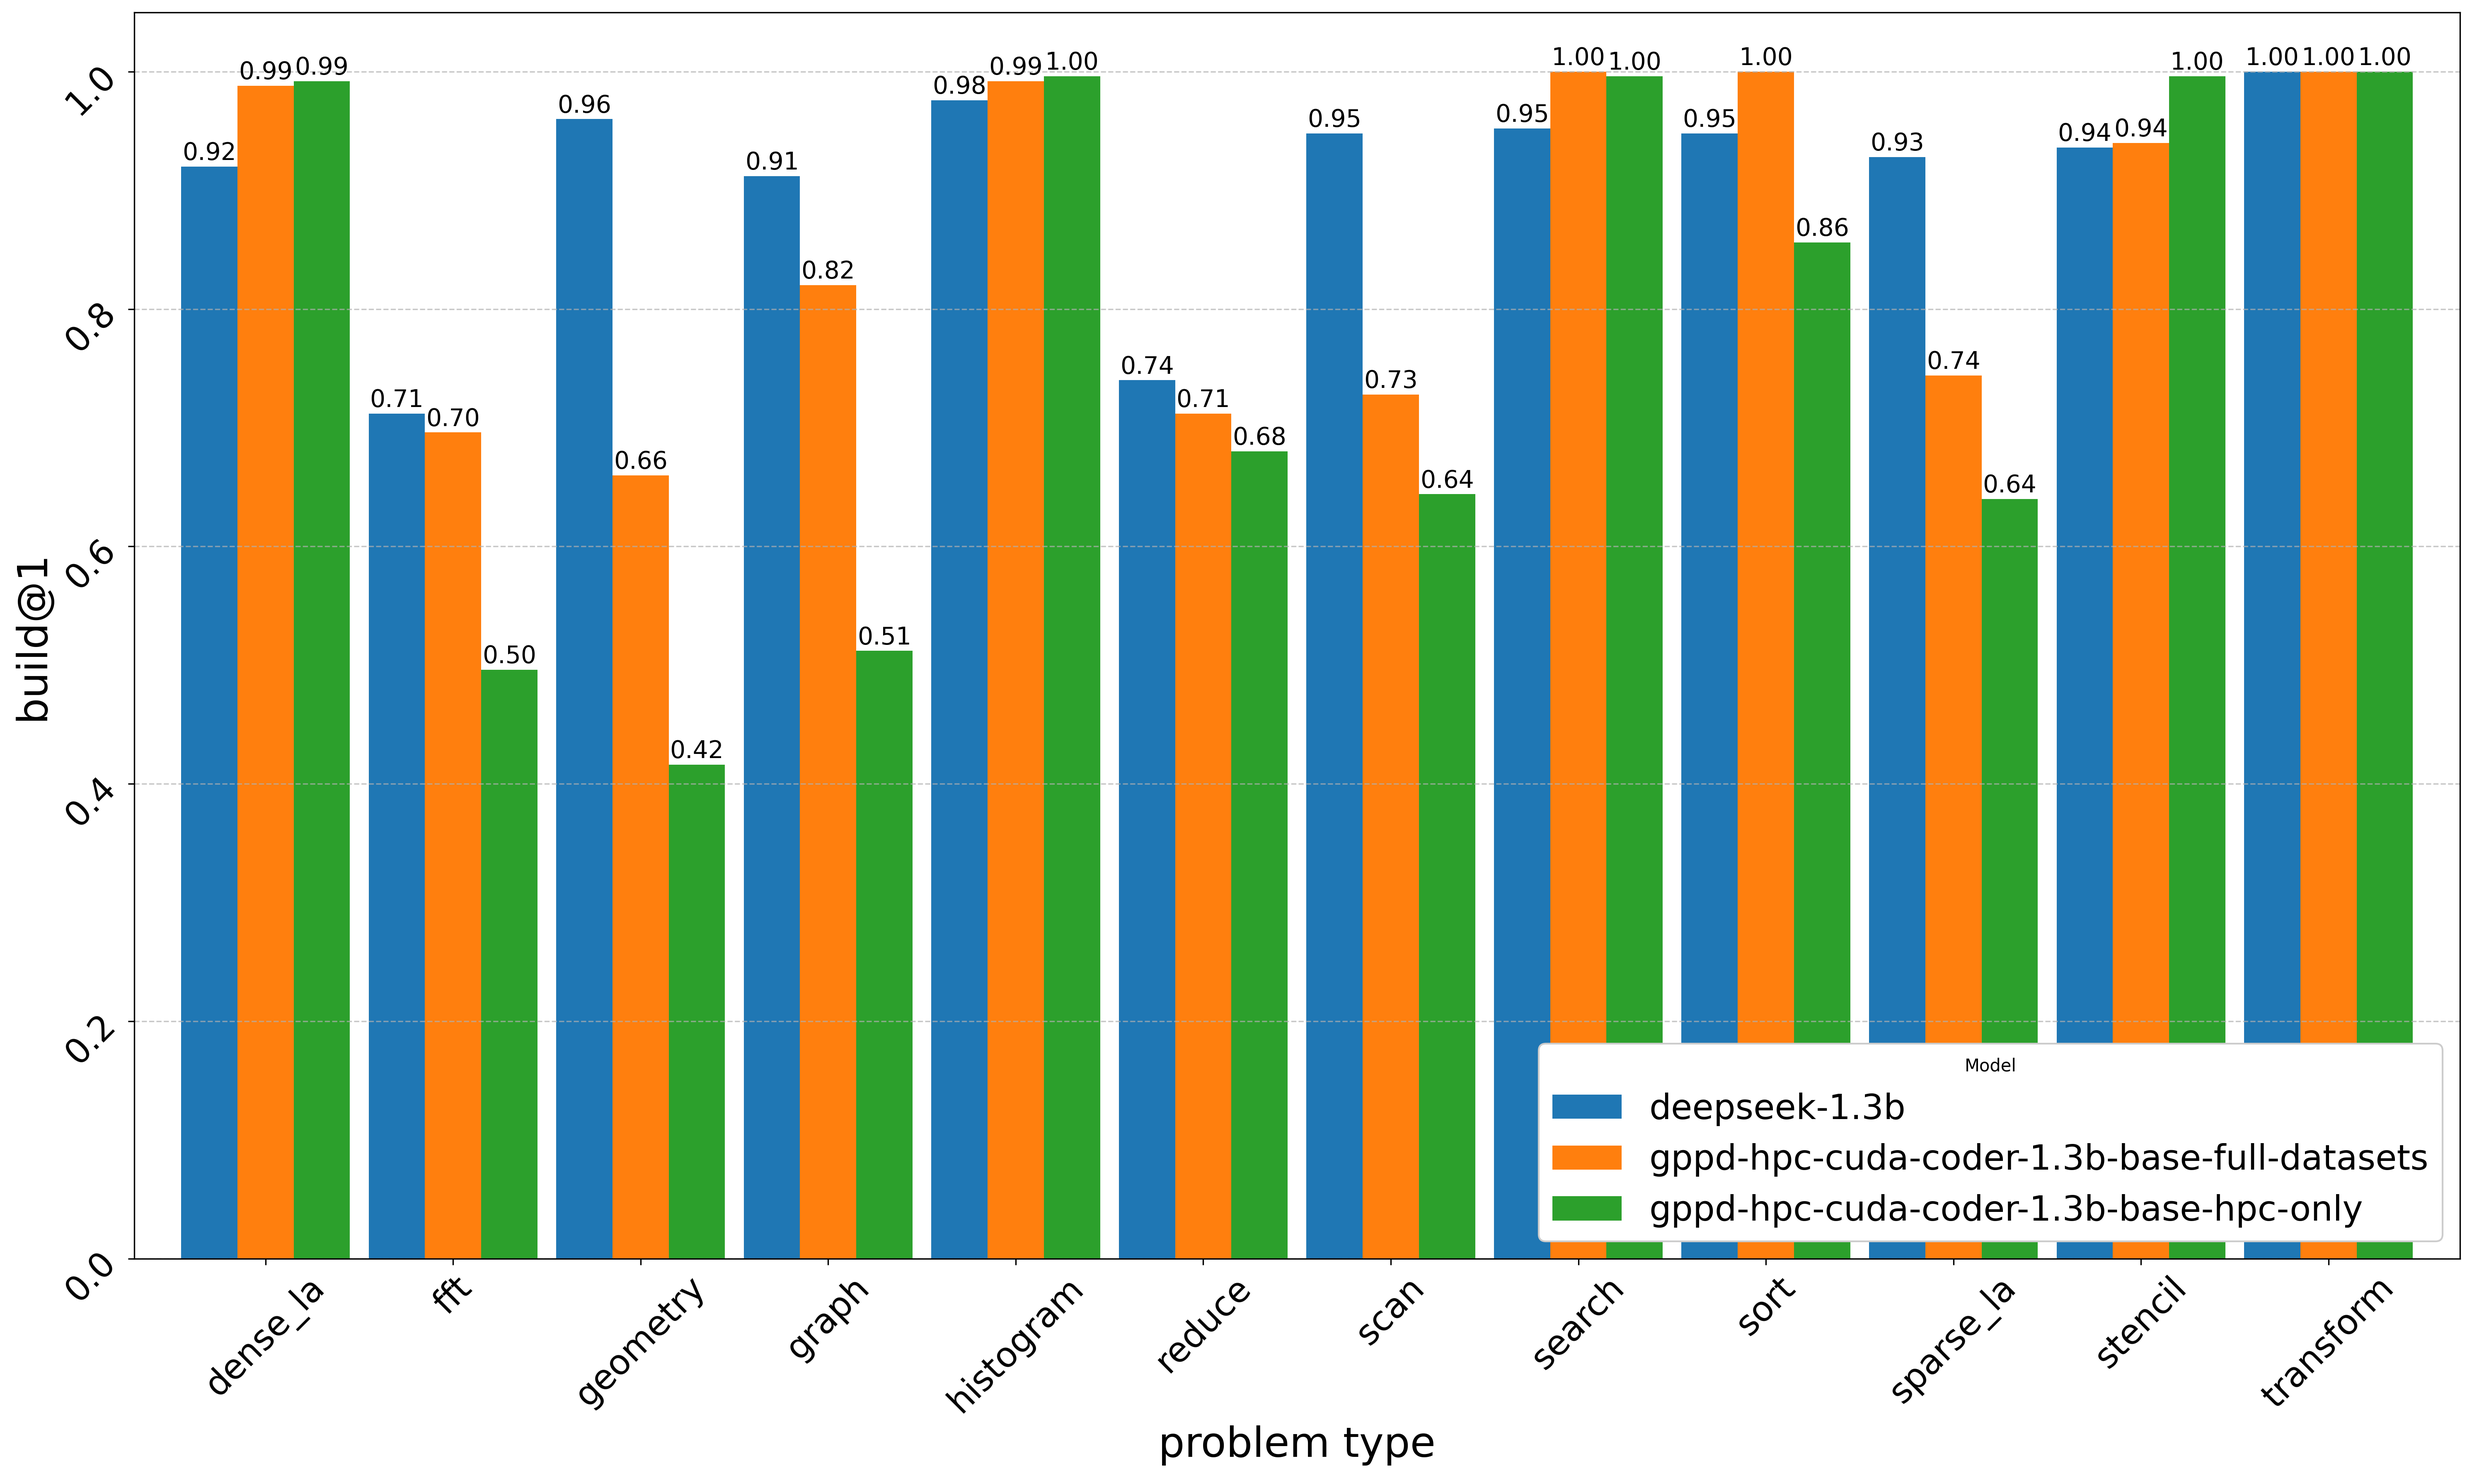
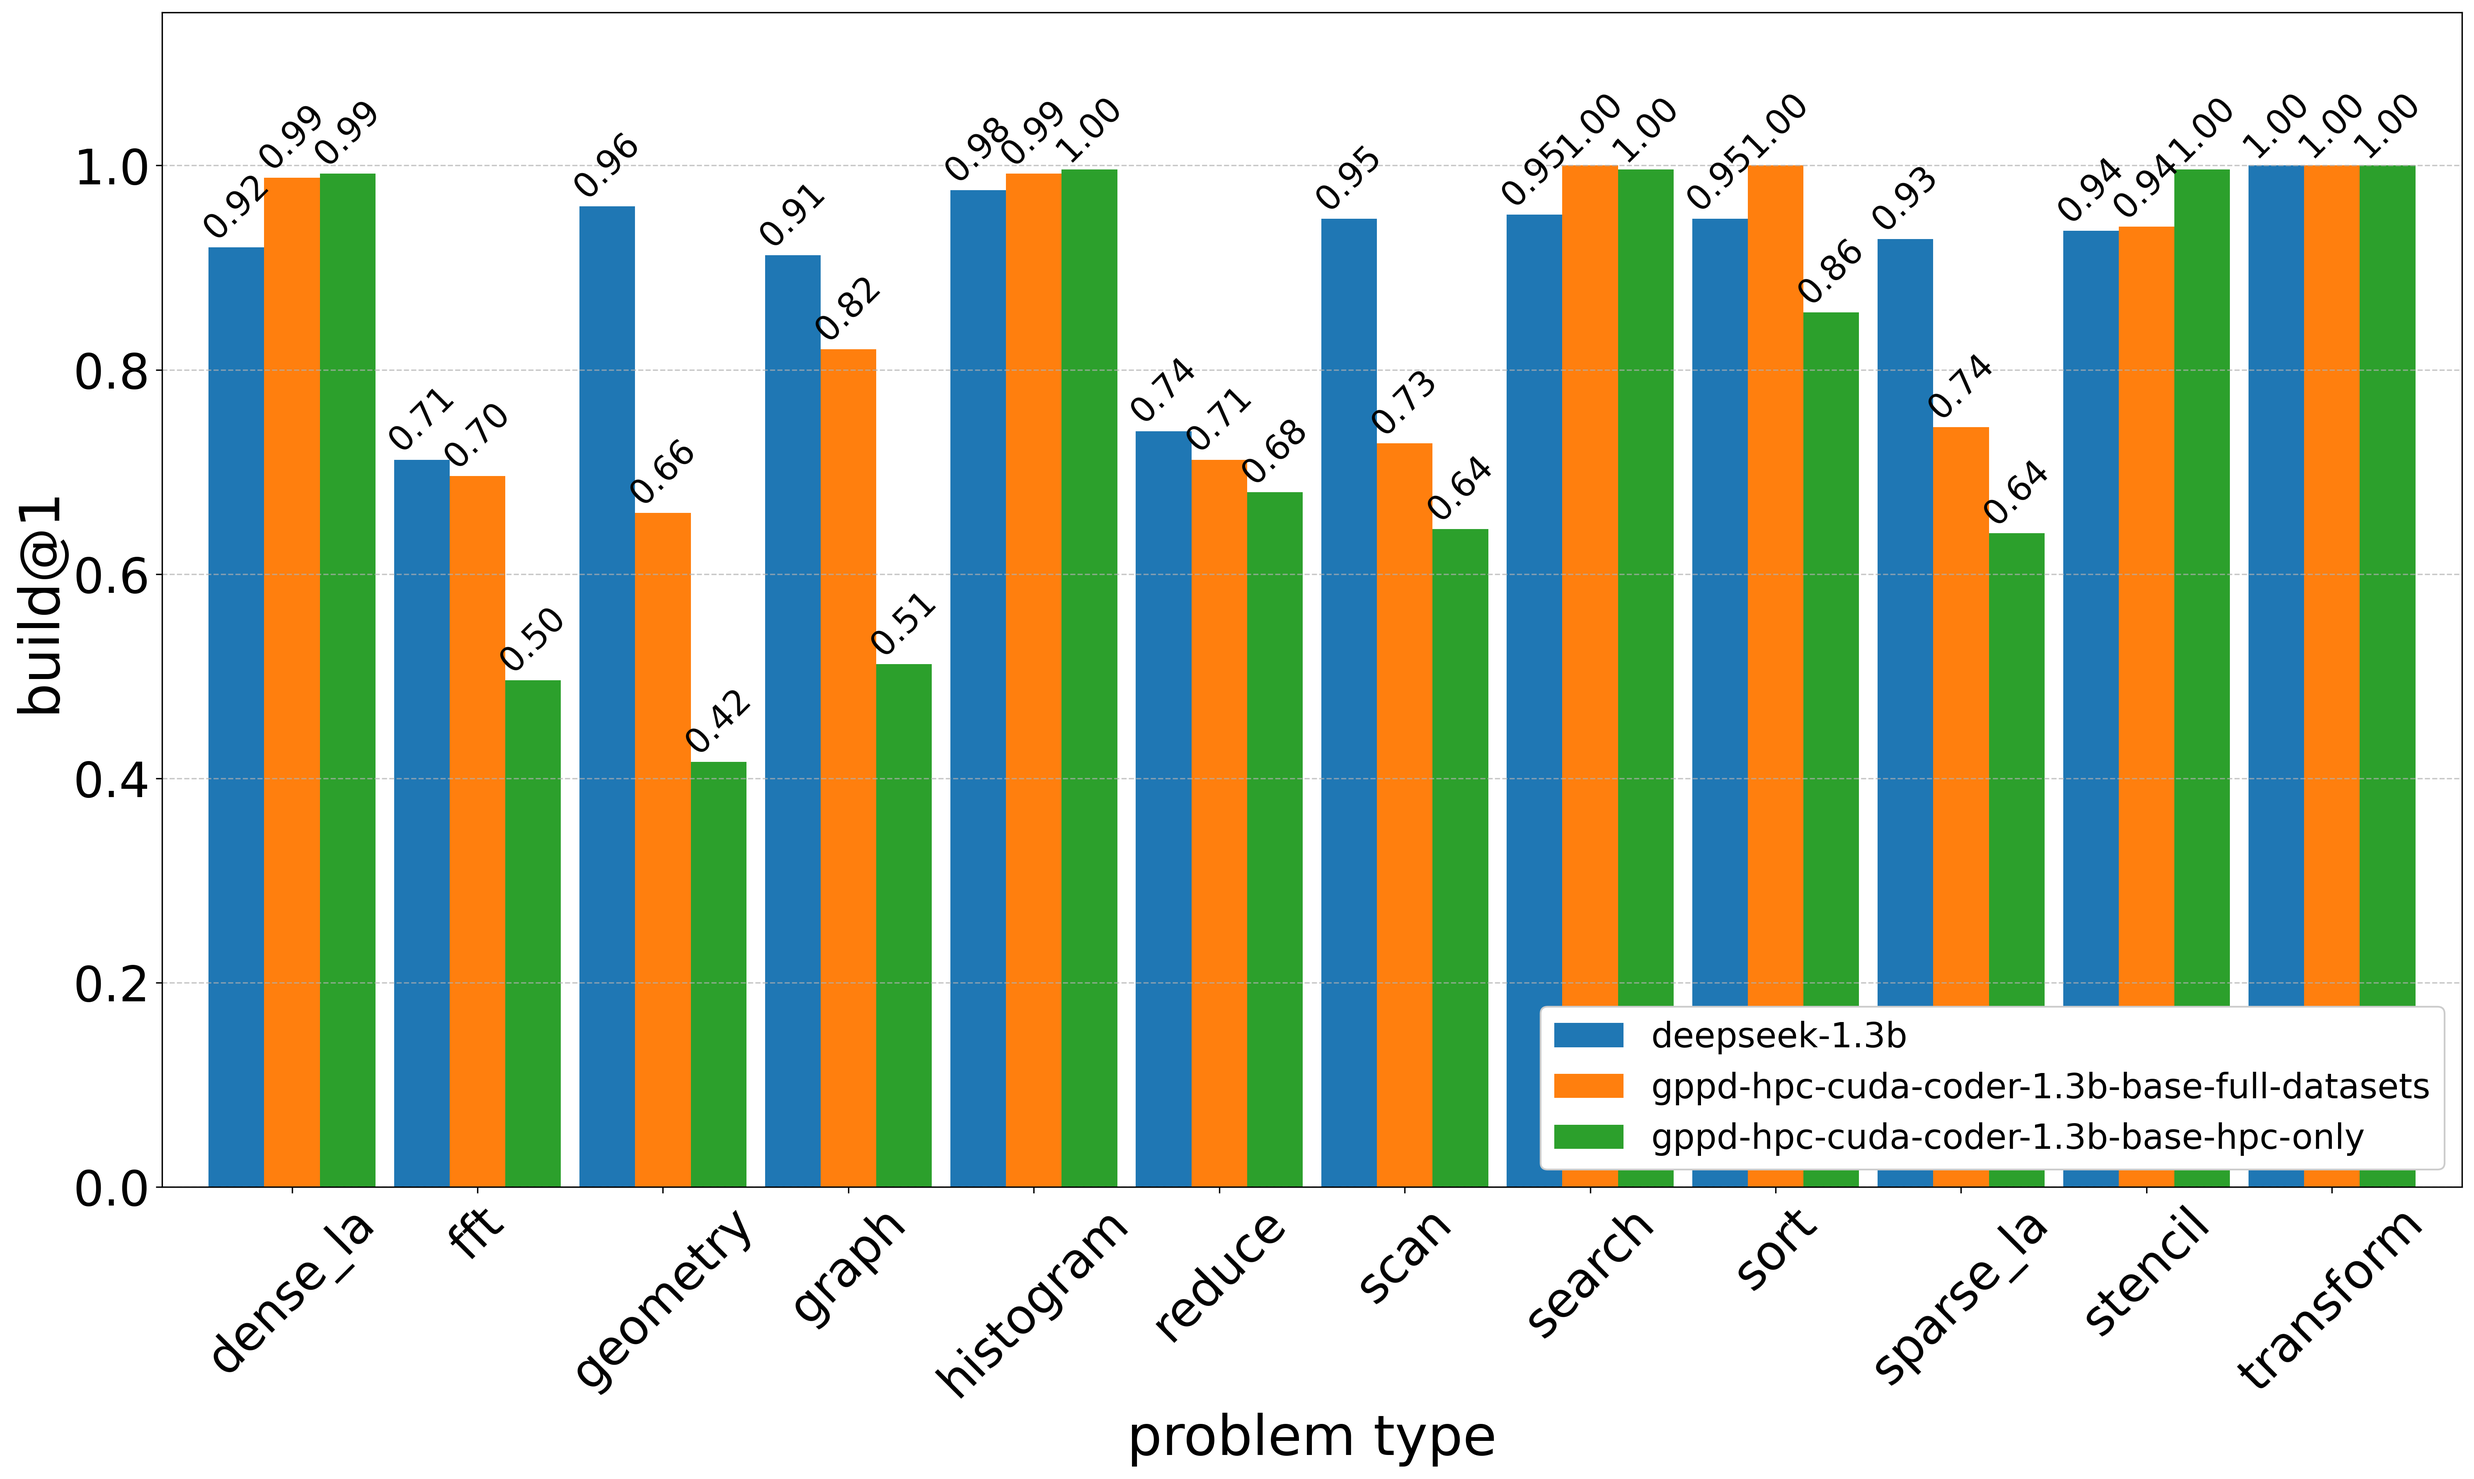
ajustando legendas dos graficos

diff --git a/generate_chart.py b/generate_chart.py
@@ -5,8 +5,8 @@ import os
 
 # --- Configuration ---
 # CHART_TITLE = "pass@1"
-INPUT_FILE = "metrics/pass@1-all-models.csv"
-OUTPUT_FILE = "graphs/pass@1-all-models.png"
+INPUT_FILE = "metrics/build@1-all-models.csv"
+OUTPUT_FILE = "graphs/build@1-all-models.png"
 # ---------------------
 
 def generate_chart():
@@ -45,17 +45,19 @@ def generate_chart():
         
         # Styling
         # plt.title(CHART_TITLE, fontsize=32, pad=20)
-        plt.ylabel(value_col, fontsize=24)
-        plt.xlabel(problem_col, fontsize=24)
-        plt.xticks(rotation=45, fontsize=20)
-        plt.yticks(rotation=45, fontsize=20)
+        plt.ylabel(value_col, fontsize=32)
+        plt.xlabel(problem_col, fontsize=32)
+        plt.xticks(rotation=45, fontsize=28)
+        plt.yticks(rotation=0, fontsize=28)
+        plt.ylim(0, 1.15)
+        # plt.ylim(0, 0.9)
         plt.grid(axis='y', linestyle='--', alpha=0.7)
-        # plt.legend(title='Model', loc='lower right', fontsize=20, framealpha=1)
-        plt.legend(title='Model', loc='best', framealpha=1, fontsize=18)
+        plt.legend(loc='lower right', fontsize=20, framealpha=1)
+        # plt.legend( loc='best', framealpha=1, fontsize=24)
         
         # Add value labels on top of bars
         for container in ax.containers:
-            ax.bar_label(container, fmt='%.2f', fontsize=14, padding=1)
+            ax.bar_label(container, fmt='%.2f', fontsize=20, padding=1, rotation=45)
             
         plt.tight_layout()
         
